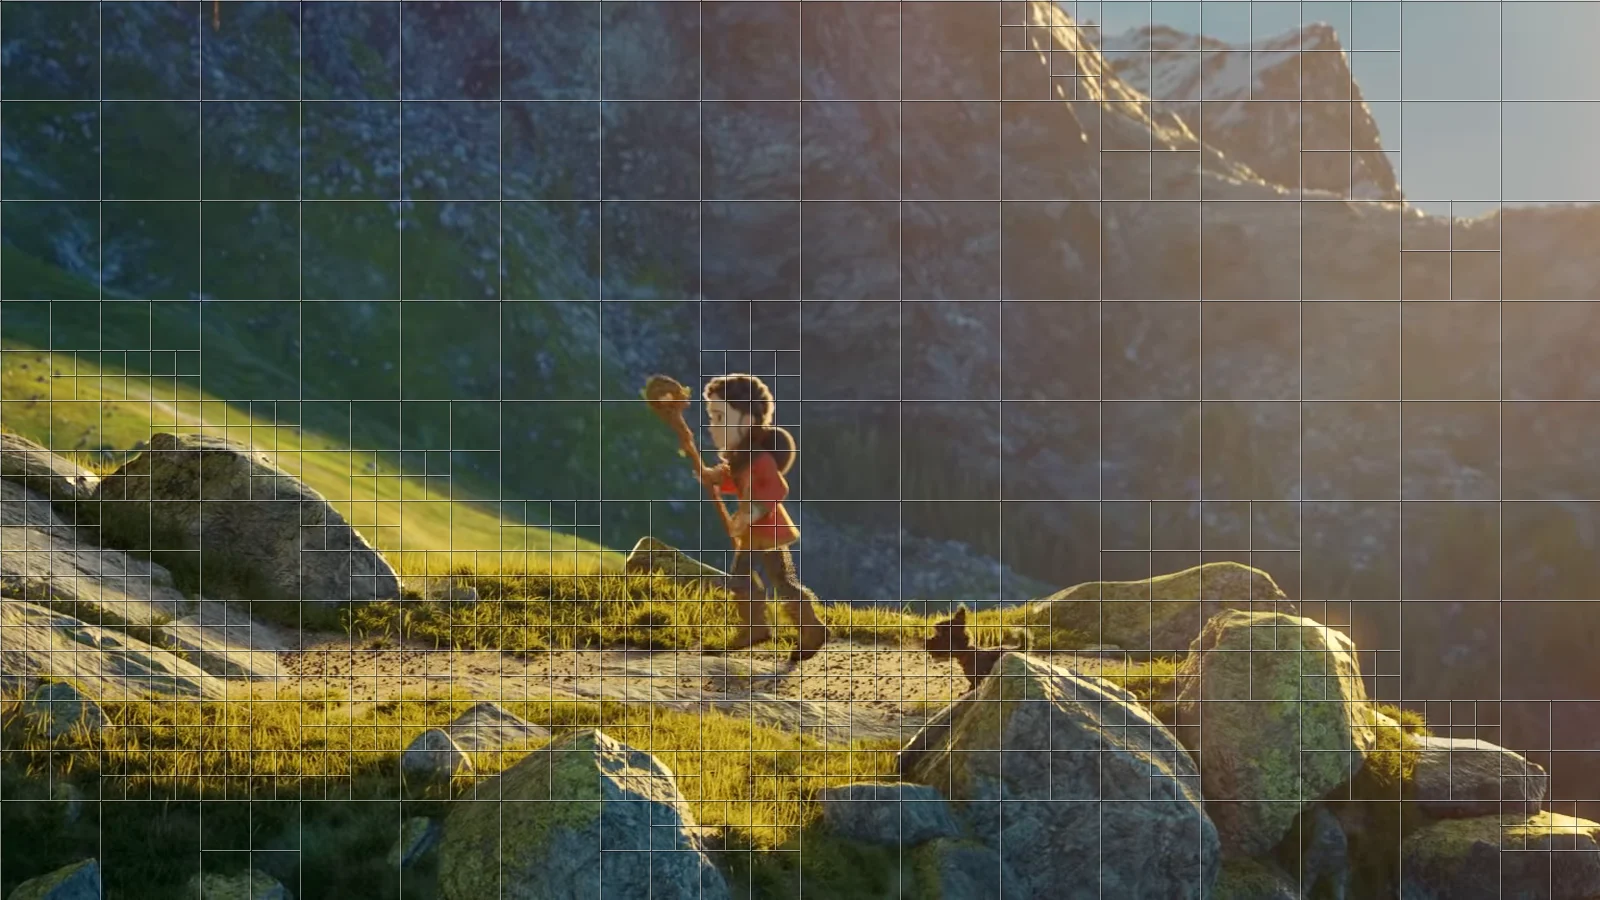
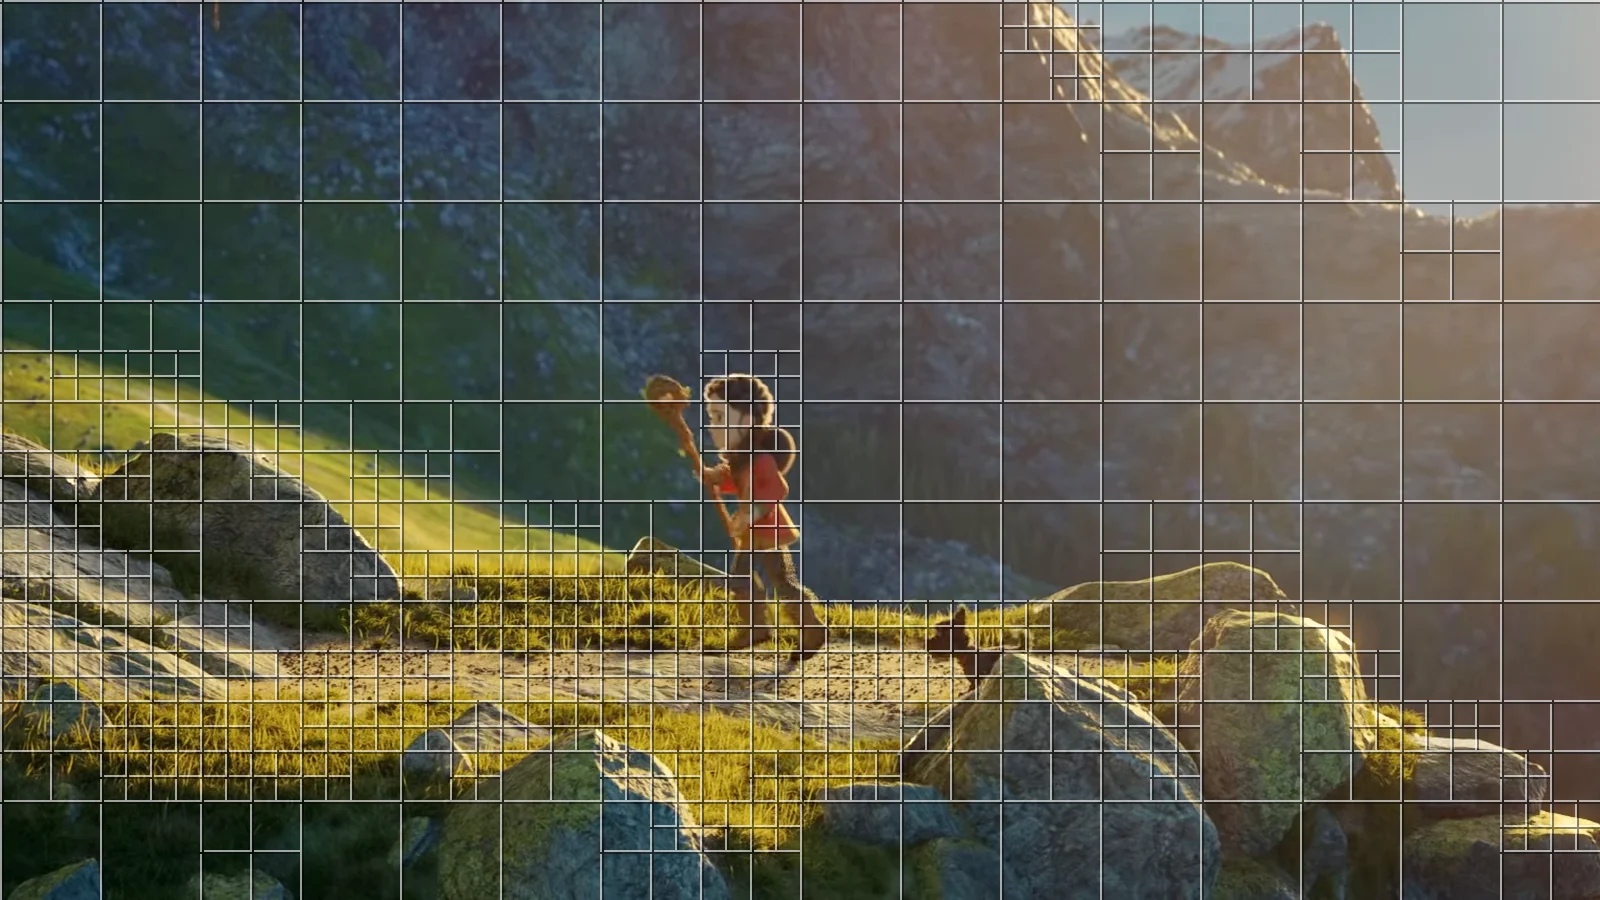
Video komprimieren, teaser: the light and dark lines 2 pixels each, visible at the size of the card

diff --git a/src/content/video-compression/bilder/teaser.py b/src/content/video-compression/bilder/teaser.py
@@ -29,7 +29,8 @@ SOURCE_W, SOURCE_H = 2048, 858
 LEFT = 488                                  # the 16 : 9 cut: 1525 of the 2048 columns
 SIZES = [100, 50, 25]
 SPLIT = [0.4, 0.2]                          # the share of all blocks of 100, of all blocks of 50 split
-LIGHT, DARK = (255, 255, 255, 130), (0, 0, 0, 120)
+LIGHT, DARK = (255, 255, 255, 150), (0, 0, 0, 110)
+LINE = 2                                    # pixels of each: the card shows the picture at about 60 %
 
 
 def frame(path):
@@ -71,9 +72,9 @@ def main(path):
                 # the top and left edge of each block, a light and a dark
                 # line side by side: seen on bright grass and dark rock alike,
                 # without washing the picture out
-                for k, colour in ((0, LIGHT), (1, DARK)):
-                    draw.line([bx, by + k, bx + size, by + k], fill=colour)
-                    draw.line([bx + k, by, bx + k, by + size], fill=colour)
+                for k, colour in ((0, LIGHT), (LINE, DARK)):
+                    draw.rectangle([bx, by + k, bx + size, by + k + LINE - 1], fill=colour)
+                    draw.rectangle([bx + k, by, bx + k + LINE - 1, by + size], fill=colour)
     picture = Image.alpha_composite(picture.convert('RGBA'), overlay).convert('RGB')
     picture.save(OUT, quality=86)
     print(OUT, counts)
